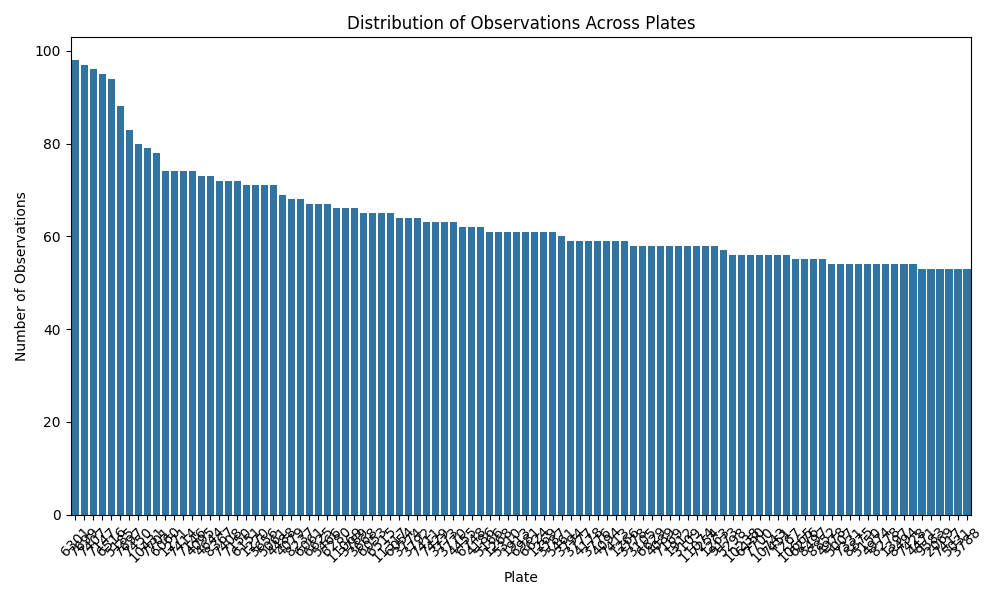
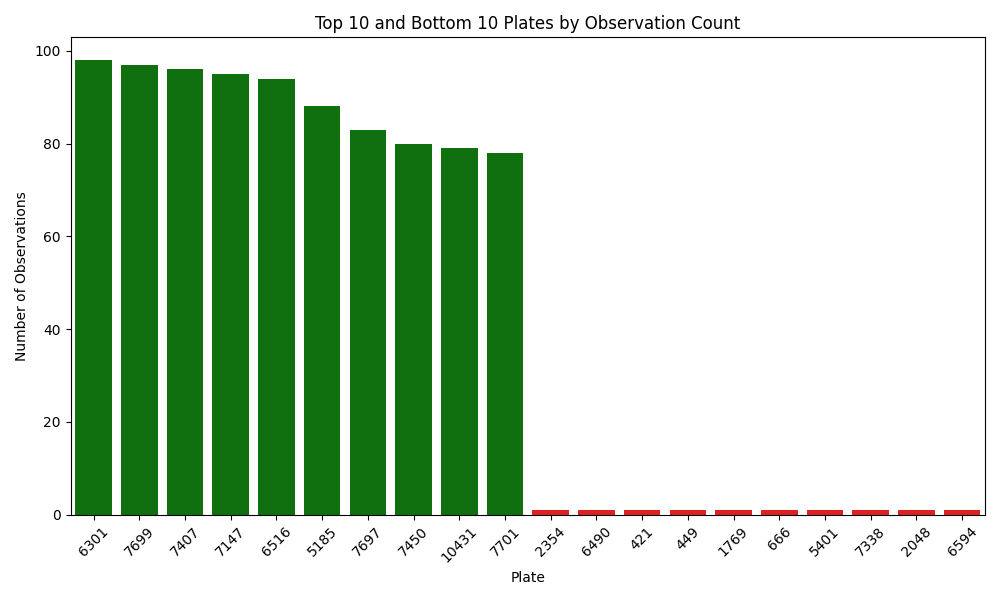
revisions

diff --git a/query.py b/query.py
@@ -4,6 +4,7 @@ import logging
 import matplotlib.pyplot as plt
 import seaborn as sns
 import os
+import pandas as pd
 
 # Set up logging
 logging.basicConfig(filename='database_errors.log', level=logging.ERROR, 
@@ -69,18 +70,31 @@ def plot_distribution_across_plates(result):
     plates = [row[0] for row in result]
     observation_counts = [row[1] for row in result]
 
+    # Sort the result based on observation counts to ensure top 10 are first
+    sorted_results = sorted(zip(plates, observation_counts), key=lambda x: x[1], reverse=True)
+    plates, observation_counts = zip(*sorted_results)
+
+    # Split into top 10 and bottom 10 based on sorted observation counts
+    top_10_plates = plates[:10]
+    bottom_10_plates = plates[-10:]
+
+    df = pd.DataFrame({'Plate': plates, 'Observation Count': observation_counts})
+
+    # Define colors for each bar
+    colors = ['green' if plate in top_10_plates else 'red' for plate in df['Plate']]
+
     plt.figure(figsize=(10, 6))
-    sns.barplot(x=plates, y=observation_counts, order=plates)
+    sns.barplot(x='Plate', y='Observation Count', data=df, palette=colors, order=df['Plate'])
     plt.xticks(rotation=45)
     plt.xlabel('Plate')
     plt.ylabel('Number of Observations')
-    plt.title('Distribution of Observations Across Plates')
+    plt.title('Top 10 and Bottom 10 Plates by Observation Count')
+    plt.legend([],[], frameon=False)  # Hide the legend
     plt.tight_layout()
 
     plot_filename = os.path.join(plots_dir, 'plates_distribution.png')
     plt.savefig(plot_filename)
     plt.show()
-
 
 # Query 4
 def plot_avg_redshift_comparison(result):
@@ -121,19 +135,35 @@ predefined_queries = {
            AVG(g) AS avg_green, STDDEV(g) AS stddev_green, AVG(r) AS avg_red, 
            STDDEV(r) AS stddev_red, AVG(i) AS avg_near_infrared, 
            STDDEV(i) AS stddev_near_infrared, AVG(z) AS avg_infrared, 
-           STDDEV(z) AS stddev_infrared FROM celestial_observations GROUP BY class"""),
+           STDDEV(z) AS stddev_infrared 
+           FROM celestial_observations GROUP BY class"""),
     2: ("Celestial Objects with Highest Redshift",
-        """SELECT *, plate FROM celestial_observations ORDER BY redshift DESC LIMIT 10"""),
+        """SELECT *, plate 
+            FROM celestial_observations 
+            ORDER BY redshift 
+            DESC LIMIT 10"""),
     3: ("Distribution of Observations Across Different Plates",
-        """SELECT plate, COUNT(*) AS observation_count, AVG(redshift) AS avg_redshift 
-           FROM celestial_observations GROUP BY plate ORDER BY observation_count DESC LIMIT 100"""),
+        """(SELECT plate, COUNT(*) AS observation_count, 'Top 10' AS category
+           FROM celestial_observations 
+           GROUP BY plate 
+           ORDER BY observation_count 
+           DESC LIMIT 10)
+           UNION ALL
+           (Select plate, COUNT(*) AS observation_count, 'Bottom 10' AS category
+           FROM celestial_observations
+           GROUP BY plate
+           ORDER BY observation_count ASC
+           LIMIT 10)"""),
     4: ("Average Redshift Values Comparison",
         """SELECT class, AVG(redshift) AS average_redshift, MIN(redshift) AS min_redshift, 
-           MAX(redshift) AS max_redshift FROM celestial_observations GROUP BY class"""),
+           MAX(redshift) AS max_redshift 
+           FROM celestial_observations 
+           GROUP BY class"""),
     5: ("Count and Average Values for Each Class",
         """SELECT class, COUNT(*) AS frequency, AVG(u) AS avg_u, AVG(g) AS avg_g, 
            AVG(r) AS avg_r, AVG(i) AS avg_i, AVG(z) AS avg_z 
-           FROM celestial_observations GROUP BY class""")
+           FROM celestial_observations 
+           GROUP BY class""")
 }
 
 def select_query():

diff --git a/README.md b/README.md
@@ -17,7 +17,7 @@ This project uses the following Python libraries:
 - `pandas`: Facilitates reading, manipulating, and analyzing data in DataFrame format.
 - `configparser`: Manages and retrieves database configurations.
 - `PyMySQL`: Connects to the MySQL database and executes SQL statements.
-- `tqdm`: Offers a progress meter for data insertion, enhancing visibility of the process.
+- `tqdm`: Offers a progress meter for data insertion.
 
 ## Project Components
 
@@ -72,10 +72,8 @@ SELECT
   STDDEV(i) AS stddev_near_infrared,
   AVG(z) AS avg_infrared,
   STDDEV(z) AS stddev_infrared
-FROM
-  celestial_observations
-GROUP BY
-  class;
+FROM celestial_observations
+GROUP BY class;
 ```
 
 ![Alt text](query_generated_plots/avg_stddev_by_class.png)
@@ -90,13 +88,9 @@ _Write your analysis here._
 
 **SQL Query**:
 ```sql
-SELECT
-  *,
-  plate
-FROM
-  celestial_observations
-ORDER BY
-  redshift DESC
+SELECT *, plate
+FROM celestial_observations
+ORDER BY redshift DESC
 LIMIT 10;
 ```
 
@@ -111,16 +105,16 @@ _Write your analysis here._
 
 **SQL Query**:
 ```sql
-SELECT
-  plate,
-  COUNT(*) AS observation_count,
-  AVG(redshift) AS avg_redshift
-FROM
-  celestial_observations
-GROUP BY
-  plate
-ORDER BY
-  observation_count DESC;
+(SELECT plate, COUNT(*) AS observation_count, 'Top 10' AS category
+ FROM celestial_observations 
+ GROUP BY plate 
+ ORDER BY observation_count DESC LIMIT 10)
+UNION ALL
+(Select plate, COUNT(*) AS observation_count, 'Bottom 10' AS category
+ FROM celestial_observations
+ GROUP BY plate
+ ORDER BY observation_count ASC
+ LIMIT 10);
 ```
 
 ![Alt text](query_generated_plots/distribution_across_plates.png)
@@ -134,15 +128,10 @@ _Write your analysis here._
 
 **SQL Query**:
 ```sql
-SELECT
-  class,
-  AVG(redshift) AS average_redshift,
-  MIN(redshift) AS min_redshift,
-  MAX(redshift) AS max_redshift
-FROM
-  celestial_observations
-GROUP BY
-  class;
+SELECT class, AVG(redshift) AS average_redshift, MIN(redshift) AS min_redshift, 
+       MAX(redshift) AS max_redshift 
+FROM celestial_observations 
+GROUP BY class;
 ```
 
 ![Alt text](query_generated_plots/avg_redshift_comparison.png)
@@ -153,10 +142,11 @@ GROUP BY
     Galaxies: They exhibit a greater redshift than stars, with an average value just above 0.25. This suggests that galaxies are moving away from us, which is expected due to the expansion of the universe. The galaxies shown here are likely at a considerable distance from our own galaxy but not as distant as quasars.
 
     Quasars (QSO): They have a much higher average redshift compared to galaxies and stars, which aligns with the fact that quasars are among the most distant objects observed in the universe. Their high redshift values indicate that they are moving away from us at a much faster rate, which is also a reflection of their vast distance and age.
+```
 
 ## Query 5: Class Frequency and Average Values for Photometric Filters
 
-**Purpose**: Counts how many of each class of object (galaxy, star, quasar) are in the dataset and includes average values for photometric filters.
+**Purpose**: This query aims to count the number of celestial objects in each class (galaxy, star, quasar) within the dataset and calculate the average values for different photometric filters. This provides insight into the distribution and photometric characteristics of different celestial object classes.
 
 **SQL Query**:
 ```sql
@@ -177,5 +167,6 @@ GROUP BY
 ![Alt text](query_generated_plots/class_frequency.png)
 
 **Analysis**: 
-_Write your analysis here._
+This query along with the generated plot shows that galaxies are the most populous celestial body in the dataset and observable universe. Quasars are the next most frequent class
+
 ```
